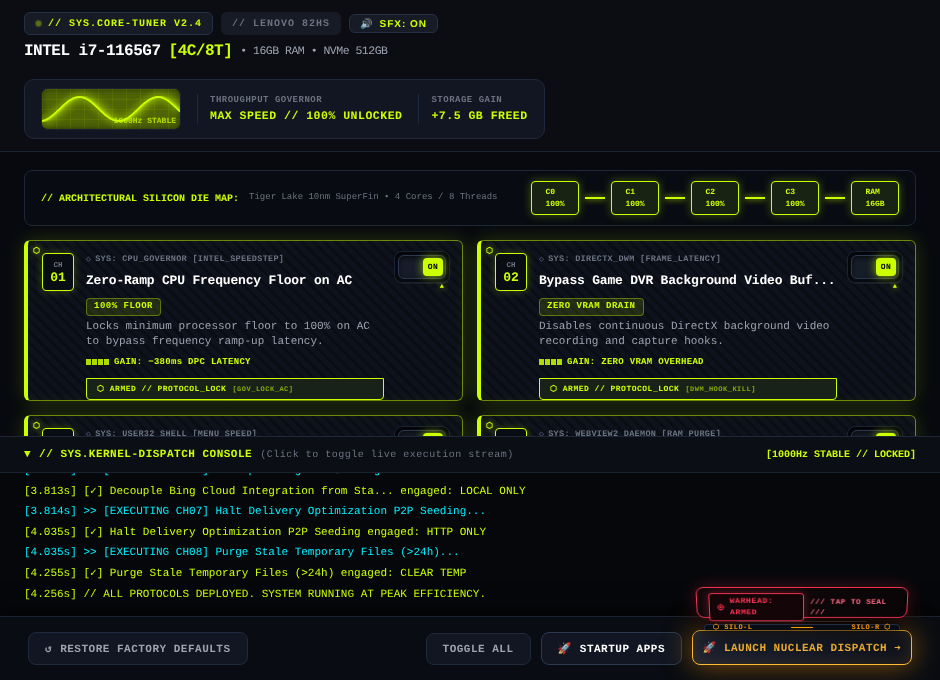
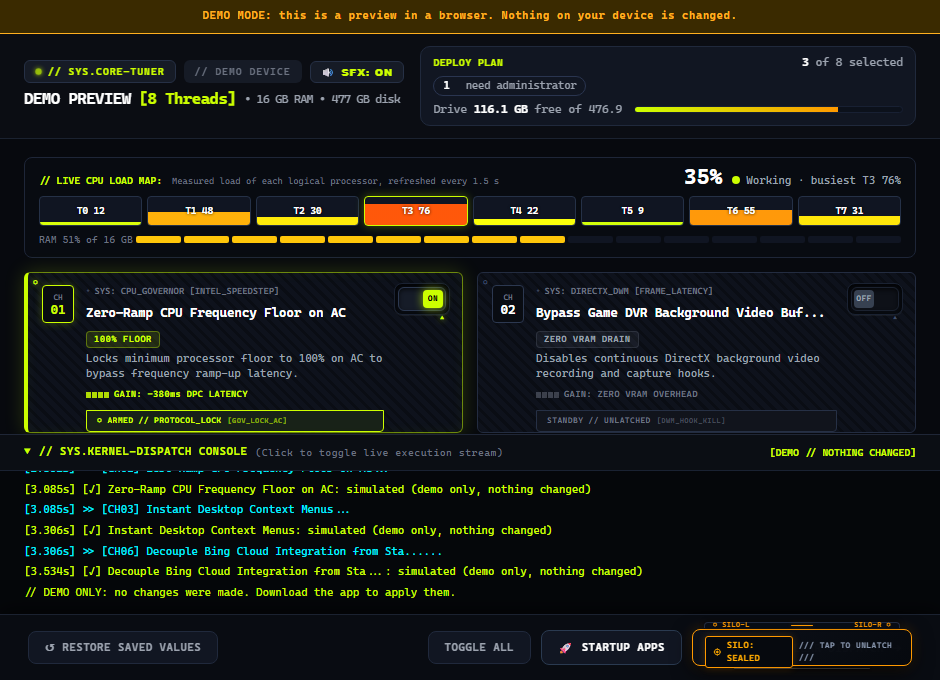
README: thorough update and new screenshots
Covers the automatic release process, the Restore question, ten commands, testing,
tested-on statements, limitations, troubleshooting and the project structure.
The three screenshots show the current interface.

diff --git a/README.md b/README.md
@@ -25,9 +25,9 @@ A Windows desktop app that applies a fixed set of eight performance and cleanup 
 
 ## Screenshots
 
-These images are the app's own interface (`laptop-optimizer-tauri/src/index.html`) rendered in a browser in demo mode, so the hardware details shown (Lenovo 82HS, i7-1165G7) are sample data, not read from the machine that took the screenshot.
+These images are the app's own interface (`laptop-optimizer-tauri/src/index.html`) rendered in a browser in demo mode, so the device name, thread count, RAM, drive space, CPU load and startup programs shown are sample data, not read from the machine that took the screenshot. In the first image three tweaks are switched on, so the Deploy plan is filled in. The Deploy button's safety cover is still closed there.
 
-| Main window | After deploying |
+| Main window (three tweaks switched on) | After deploying (demo: nothing is changed) |
 | :-- | :-- |
 | ![Main window with eight tweak cards](docs/screenshots/main-window.png) | ![Console drawer showing deployment log](docs/screenshots/dispatch-console.png) |
 
@@ -39,7 +39,7 @@ These images are the app's own interface (`laptop-optimizer-tauri/src/index.html
 - **Deploy** applies every switched-on tweak and prints a result line for each one in a console drawer. A safety cover over the Deploy button must be opened first. Widgets removal and hibernation each ask their own question first, unless they are already applied. A tweak that is already in place is reported as "no change" and nothing is written.
 - **Deploy plan** (top right of the header) shows what a deploy would do before you press it: how many tweaks are switched on, how many need administrator rights (and whether the app is running as administrator), how many will ask you to confirm, and the free space on the system drive with the rise since the app opened. It is a card beside the title when there is room and one compact line when the window is narrow.
 - **Capacity battery** (the CPU load map) shows the overall CPU load with a plain-language word ("Running calm", "Working", "Busy", "Straining"; these thresholds are the app's own wording, at 25%, 60% and 85% average load), the busiest processor, one cell per logical processor filled by its measured load, and a RAM meter. Values come from Windows' own per-processor counters, refreshed every 1.5 s.
-- **Restore Saved Values** puts back the values the app saved before it changed them. A tweak the app never changed is skipped, with a message (see the limits in [What the tweaks do](#what-the-tweaks-do)).
+- **Restore Saved Values** puts back the values the app saved before it changed them. A tweak the app never changed is skipped, with a message (see the limits in [What the tweaks do](#what-the-tweaks-do)). If you changed a value yourself after the app set it, Restore asks before it puts the older saved value back over yours.
 - **Startup applications manager** lists programs in the `Run` registry keys and turns them on or off without deleting the keys.
 - **Hardware summary** in the header: processor name, thread count, RAM and system drive size, and system model, read from the registry and Win32 calls.
 - **Sound effects** generated in the browser engine (Web Audio API), with a mute toggle in the header. No audio files are used.
@@ -67,13 +67,13 @@ The labels in the app such as "−380ms" (400 − 20), "−300MB" and "+1.4GB CL
 ## Installation
 
 > [!IMPORTANT]
-> The files on the [Releases page](https://github.com/GHOST-DEKU/laptop-optimizer/releases/latest) are built automatically by GitHub Actions from the source in this repository when the version changes on `main` (see [Making a release](#making-a-release-automatic)). They are **not code-signed**, so Windows SmartScreen may warn. `v2.5.0` was started and checked on one Windows 11 PC (SHA-256 matches, the app opens). It has not been tested on Windows 10 or on a clean PC. `PRODUCTION_READINESS_PLAN.md` lists what is tested and what is not.
+> The files on the [Releases page](https://github.com/GHOST-DEKU/laptop-optimizer/releases/latest) are built automatically by GitHub Actions from the source in this repository when the version changes on `main` (see [Making a release](#making-a-release-automatic)). They are **not code-signed**, so Windows SmartScreen may warn. `v2.5.0` was checked on one Windows 11 PC: the SHA-256 of every file matches `SHA256SUMS.txt`, the portable file, the MSI and the setup file start, and deploy, deploy again and restore were run in the real window for tweaks 1, 2, 3, 5, 6 and 7. It has not been tested on Windows 10, on a clean PC or on a second user account. Later releases are built the same way; `PRODUCTION_READINESS_PLAN.md` lists what is tested and what is not.
 
 **Option 1: portable executable.** Download [`LaptopOptimizer.exe`](https://github.com/GHOST-DEKU/laptop-optimizer/releases/latest/download/LaptopOptimizer.exe) from the latest release. It is one file (about 9 MB), nothing to install. Every release has a `SHA256SUMS.txt`; compare it with your download using `Get-FileHash .\LaptopOptimizer.exe`. If you prefer not to trust a prebuilt file, build it yourself (see [Development](#development)).
 
 You can also run `Run-Optimizer.bat` (from this repository), which starts the executable with administrator rights. It does not remove the "downloaded from the internet" mark. It must sit in the same folder as `LaptopOptimizer.exe`.
 
-**Option 2: installers.** The same release has an MSI and an NSIS setup file (`.msi`, `-setup.exe`), also listed in `SHA256SUMS.txt`. The installers have not been run on a clean PC yet.
+**Option 2: installers.** The same release has an MSI and an NSIS setup file (`.msi`, `-setup.exe`), also listed in `SHA256SUMS.txt`. On one Windows 11 PC both were installed silently, started and uninstalled: nothing was left behind except your own saved-values file (`previous.json`), which an uninstall keeps on purpose. The setup file installs for the current user only, into `%LOCALAPPDATA%\LaptopOptimizer`, the same folder that holds `previous.json`. Neither installer has been run on a clean PC.
 
 The app needs Microsoft Edge WebView2. It is included in Windows 10 (version 1803 and later) and Windows 11.
 
@@ -85,13 +85,13 @@ The app needs Microsoft Edge WebView2. It is included in Windows 10 (version 180
 4. Click **LAUNCH NUCLEAR DISPATCH**. The console drawer opens and logs each step. Failed steps are marked `[✗]` with the error.
 5. To open or close the console by hand, click its header bar.
 6. **STARTUP APPS** opens the startup manager. Click a row to switch that program on or off for the next sign-in.
-7. **RESTORE SAVED VALUES** asks for confirmation, then applies the Restore column above. Tweaks the app never changed are skipped.
+7. **RESTORE SAVED VALUES** asks for confirmation, then applies the Restore column above. Tweaks the app never changed are skipped. If some tweaks were changed after the app set them (by you or by Windows), a second question names them: **OK** replaces them with the saved original, **Cancel** leaves them as they are and still restores everything else. A tweak you leave alone keeps its saved value, so you can run Restore again.
 
 ## Supported platforms
 
 | Platform | Status |
 | :-- | :-- |
-| Windows 10 / 11, 64-bit | Target platform. The release workflow builds `x86_64-pc-windows-msvc`. Tested so far on **one Windows 11 PC** only (Rust tests, source checks, page tests, one tweak applied and restored by hand). Windows 10, a clean VM and a second user account are not tested. |
+| Windows 10 / 11, 64-bit | Target platform. The release workflow builds `x86_64-pc-windows-msvc`. Tested so far on **one Windows 11 PC** only: Rust tests, source checks, page tests, the release files (checksums, MSI and setup install and uninstall) and deploy, deploy again and restore of tweaks 1, 2, 3, 5, 6 and 7 in the real window. Tweaks 4 and 8 were not run in the real window. Windows 10, a clean VM and a second user account are not tested. |
 | Other Windows builds (32-bit, ARM) | Not built by the workflow. Not verified. |
 | Linux, macOS | Not supported. The Rust backend uses Windows-only APIs (`winreg`, `std::os::windows`) and will not compile there. |
 
@@ -119,7 +119,21 @@ pnpm tauri build    # production build: MSI and NSIS installers
 
 `pnpm dev` and `pnpm build` are shortcuts for the same two commands. Build output is written under `laptop-optimizer-tauri/src-tauri/target/release/`, with installers in the `bundle` folder. Use `tauri build` rather than a plain `cargo build --release`, because the Tauri CLI is what prepares a production build.
 
-`pnpm install` and `pnpm tauri build` were run on Windows 11 on 2026-11-12 and produced an MSI and an NSIS installer. A local build contains the build machine's Cargo folder path; only the tagged CI build remaps it. `cargo test --lib` (in `src-tauri`) runs the Rust tests; `python tests/source_guards.py` and `python tests/ui_regression.py` (needs `playwright`) run the other checks.
+`pnpm tauri build --no-bundle` builds only the program (faster, no installers). `pnpm install` and `pnpm tauri build` were run on Windows 11 and produced an MSI and an NSIS installer. A plain local build contains the build machine's Cargo folder path inside the program; the release workflow removes it with `--remap-path-prefix` flags in `RUSTFLAGS`, and you can set the same flags locally.
+
+### Testing
+
+Run these from `laptop-optimizer-tauri`:
+
+| Command | What it checks |
+| :-- | :-- |
+| `cd src-tauri` then `cargo test --lib` | 29 Rust tests (Windows): safety rules, the saved-values file, the Restore rule, the temp purge, parsing. |
+| `cargo test --lib -- --ignored --test-threads=1` | 4 opt-in tests: three change real settings for a moment and put them back (power plan and hibernation, the Delivery Optimization policy, and `MenuShowDelay` for Restore's check); one only prints the CPU load. Run as administrator, on a PC you are happy to test on. |
+| `python tests/source_guards.py` | Source patterns that must never appear (for example `winget`). |
+| `python tests/ui_regression.py` | The app page in a browser (needs `pip install playwright` and `playwright install chromium`): switches, confirmations, Restore questions, layout at several window sizes. |
+| `python tests/site_regression.py` | The website: resizable demo window, download buttons, no stale text. |
+
+GitHub Actions (`ci.yml`) runs the Rust tests on Windows and the three Python checks on Linux for every push and pull request. Nothing automatic tests the real window on Windows; that was done by hand (see `PRODUCTION_READINESS_PLAN.md`).
 
 ### Making a release (automatic)
 
@@ -142,34 +156,38 @@ Open `laptop-optimizer-tauri/src/index.html` in any browser. Outside Tauri the p
 │   ├── package.json              pnpm scripts (dev, build) and the Tauri CLI
 │   ├── src/index.html            Interface markup and styles
 │   ├── src/app.js                Interface logic (calls the Rust commands)
-│   ├── tests/                    source_guards.py and ui_regression.py
+│   ├── tests/                    source_guards.py, ui_regression.py, site_regression.py
 │   └── src-tauri/
 │       ├── src/main.rs           Entry point, relaunches as administrator
 │       ├── src/lib.rs            Tauri commands exposed to the interface
 │       ├── src/optimizer.rs      Registry, powercfg and file operations
 │       ├── src/safety.rs         Lock, timeouts, confirmations, temp purge rules
 │       ├── src/journal.rs        Saved previous values used by Restore
-│       ├── tauri.conf.json       Window size, bundle targets, icons
+│       ├── build.rs              Allow-list of the commands the page may call
+│       ├── tauri.conf.json       Window size, bundle targets, icons, the app version
 │       └── capabilities/         Tauri permission set
 ├── index.html                    Project website (GitHub Pages), embeds the app UI
 ├── Run-Optimizer.bat             Run-as-administrator helper
-├── docs/screenshots/             Images used in this README
+├── docs/                         screenshots/ (images in this README) and WINDOWS_TEST_GUIDE.md
+├── PRODUCTION_READINESS_PLAN.md  Every task, test result and open decision
+├── AGENTS.md, CLAUDE.md          Standing rules for AI assistants working in this repository
 └── .github/workflows/             ci.yml (tests), pages.yml (website), release.yml (builds and publishes a release when the version changes on `main`, or on a `v*` tag)
 ```
 
-The interface talks to Rust through nine commands: `get_system_info`, `get_live_telemetry`, `get_elevation`, `is_applied`, `apply_tweak`, `restore_tweak`, `restore_all`, `get_startup_apps` and `toggle_startup_app`. Only these are allowed (see `build.rs` and `capabilities/default.json`). The page currently uses `restore_all` and not `restore_tweak`.
+The interface talks to Rust through ten commands: `get_system_info`, `get_live_telemetry`, `get_elevation`, `is_applied`, `apply_tweak`, `restore_tweak`, `restore_needs_confirmation`, `restore_all`, `get_startup_apps` and `toggle_startup_app`. Only these are allowed (see `build.rs` and `capabilities/default.json`). The page uses `restore_needs_confirmation` and `restore_all`, not `restore_tweak`. The backend enforces the confirmations (Widgets, hibernation) and the Restore question itself, so the window cannot skip them.
 
 ## Known limitations
 
-- **Restore uses what the app saved.** It cannot restore changes made before the app saved anything, or changes you made by hand after the app changed a setting (it would put the saved value back over yours).
+- **Restore uses what the app saved.** It cannot restore changes made before the app saved anything. If you changed a setting by hand after the app set it, Restore asks before it puts the saved value back over yours.
+- **The first save wins.** A saved value stays in `previous.json` until a full Restore of that tweak succeeds; applying a tweak again never replaces it. So a later Restore goes back to the state from before the app's first change.
 - **Some changes are permanent:** deleted temp files and the removed Web Experience package.
 - **The startup manager only covers the `Run` keys** under `HKCU` and `HKLM`. It does not cover the Startup folder, `RunOnce`, the 32-bit `Run` view or scheduled tasks. On/off is read from the first byte of the `StartupApproved` value: even means on, odd means off (inferred from one Windows 11 PC).
 - **Sample startup entries are shown only in the browser demo,** never in the installed app.
 - **Not every telemetry value is shown.** The window shows the device model, processor name, thread count, total RAM, per-processor CPU load, RAM use, and the free space on the system drive (refreshed every 1.5 s). The backend also reads the processor's base clock (MHz), but the page has no element for it. The old wave in the header was decoration (it only reacted to the number of switched-on tweaks) and has been removed.
-- **The "NVMe" label is fixed text** in the header, and the drive size is rounded to a common size (256, 512 or 1024 GB).
+- **Some labels are decoration, not measurements:** card tags such as `SYS: NVME_VFS` and the gain labels. The drive size is rounded to whole GB.
 - **Download mark:** the app no longer removes the "downloaded from the internet" mark from its own file.
 - **Network use:** the app's own code contains no analytics or network calls. The installers can download WebView2 if it is missing.
-- **Version numbers:** `tauri.conf.json` and `Cargo.toml` say 2.5.0; `package.json` says 1.0.0 (not used for the release). The version shown in the interface was not checked.
+- **Version numbers:** the real version is `version` in `tauri.conf.json` and `Cargo.toml`, kept equal (the release workflow stops if they differ). `package.json` says 1.0.0 and is not used. The website and the app header show no version number, so none can go out of date.
 
 ## Troubleshooting
 
@@ -178,6 +196,8 @@ The interface talks to Rust through nine commands: `get_system_info`, `get_live_
 | SmartScreen warns about the file | The executable is unsigned. Choose "More info", then "Run anyway", or build from source. |
 | Some deploy steps show `[✗]` | The app probably is not elevated, for example after declining the UAC prompt. Close it and start it again, accepting the prompt. |
 | Window stays blank or the app will not start | Install the [WebView2 Evergreen runtime](https://developer.microsoft.com/microsoft-edge/webview2/). |
+| Restore says "Not restored: this was changed after the app set it" | You chose Cancel on the second question, or the check could not run. Press Restore again and choose OK to replace your newer value with the saved one. |
+| I changed the version but no release appeared | Check that `tauri.conf.json` and `Cargo.toml` have the same version, that the change reached `main`, and the run on the repository's Actions page. A version that already has a release is skipped on purpose. |
 | Widgets button or panel is gone after Restore | Restore does not reinstall the package. Reinstall "Windows Web Experience Pack" from the Microsoft Store. |
 | `pnpm install` complains about the package manager version | Run `corepack enable` and use pnpm 12.18.0. |
 | MSI build fails | Check that VBSCRIPT is enabled (Settings, Apps, Optional features, More Windows features). |
@@ -185,7 +205,7 @@ The interface talks to Rust through nine commands: `get_system_info`, `get_live_
 
 ## Contributing
 
-Issues and pull requests are welcome at <https://github.com/GHOST-DEKU/laptop-optimizer>. The repository has no automated tests or contribution guide yet, so please:
+Issues and pull requests are welcome at <https://github.com/GHOST-DEKU/laptop-optimizer>. GitHub Actions runs the tests on every push and pull request (see [Testing](#testing)); there is no separate contribution guide yet. Please:
 
 - keep each pull request focused on one change,
 - describe how you tested it, since the Tauri app only runs on Windows,

diff --git a/PRODUCTION_READINESS_PLAN.md b/PRODUCTION_READINESS_PLAN.md
@@ -135,7 +135,7 @@ Statuses: Not Started · In Progress · Completed · Blocked · Needs Review · 
 | U94 | High | Version 2.5.1 so the release includes the Restore question: bump `version` in `tauri.conf.json` and `Cargo.toml` (and `Cargo.lock`) | U93 | tauri.conf.json, Cargo.toml, Cargo.lock | cargo test; the release guard check reads 2.5.1 | Needs Review (2026-11-12; 2.5.1 in tauri.conf.json, Cargo.toml, Cargo.lock; 29 Rust tests pass; no release built yet) |
 | U95 | Medium | No hand-typed version numbers on the site or in the app label (owner: "make it automatic"): remove `v2.4` from the site brand and the PROTOCOL badge and `V2.4` from the app header; the real number lives only in the two version files and on the release page | none | index.html (site), src/index.html (app), tests | site and page tests; grep finds no `v2.` text | Completed (2026-11-12; `v2.4` removed from the site brand, the PROTOCOL badge and the app header; grep finds no version text; site, page and guard tests pass; the owner chose this option) |
 | U96 | High | Automatic release: `release.yml` also runs when `tauri.conf.json` changes on `main`; it derives the tag `v<version>`, stops quietly if that release already exists, otherwise builds, uploads and publishes as before. Runs are queued one at a time so a manual tag push and the automatic run cannot clash | U94 | release.yml | YAML parses; the tag/skip logic run locally in PowerShell; real run only after the owner's "push" | Needs Review (2026-11-12; YAML parses; the tag/skip logic was run locally for 5 cases: new version builds, already released skips, hand tag builds, wrong tag stops, duplicate tag stops; NOT run on GitHub: the first real run happens when the owner says push) |
-| U97 | Medium | README: how to make a release (change the version in the two files, push to `main`, the release builds and publishes itself) | U96 | README.md | reread | Completed (2026-11-12; README section "Making a release (automatic)" and file tree) |
+| U97 | Medium | README: how to make a release (change the version in the two files, push to `main`, the release builds and publishes itself) | U96 | README.md | reread | Completed (2026-11-12; README rewritten after the owner asked for a thorough update: release process, Restore question, ten commands, testing section, tested-on statements, limitations, troubleshooting, project structure; the three screenshots in docs/screenshots regenerated from the current interface in demo mode) |
 | U44 | Medium | New: decide `src-tauri/permissions/` (commit or ignore); check CI builds without it | none | repo, ci.yml | CI dry run | Needs Review (generated by build.rs, now git-ignored, E18; CI run still untested) |
 
 
